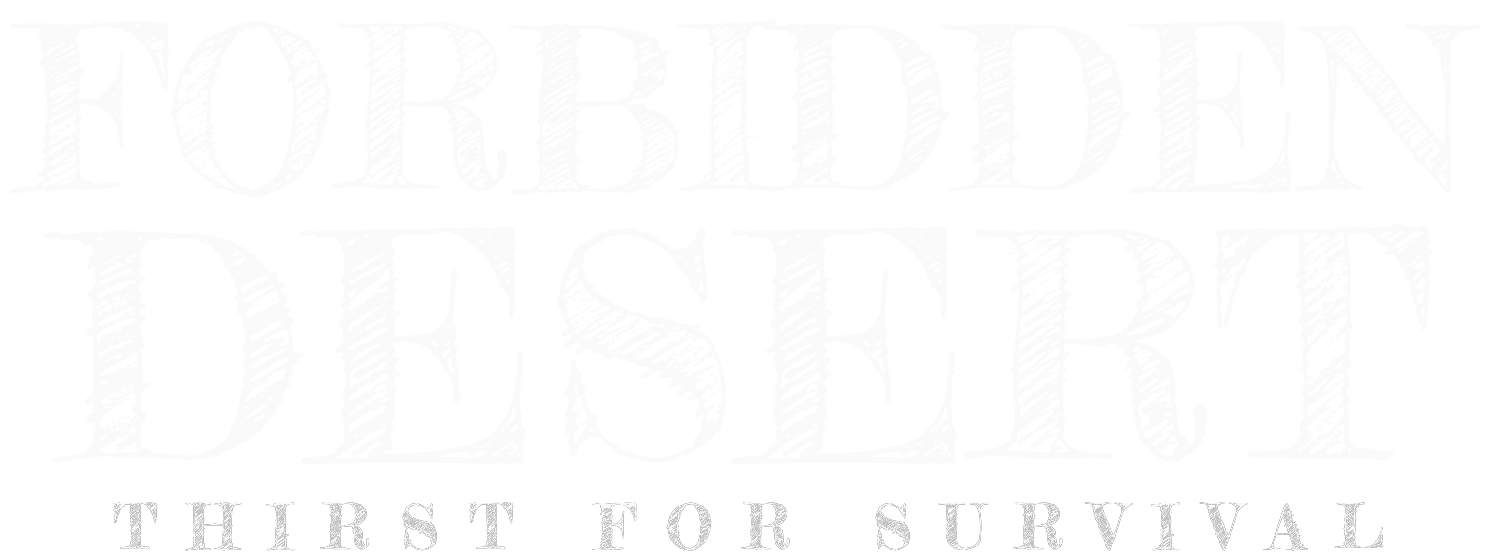
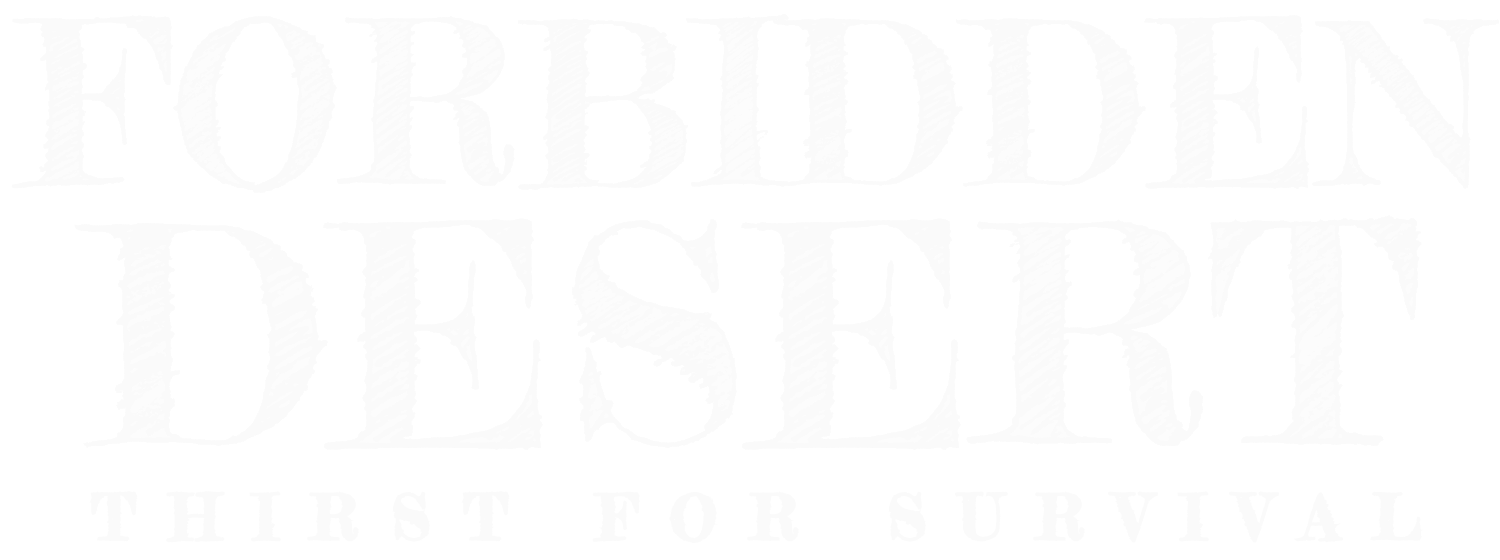
feat: add fade in for main title text
Also improve visibility of title text

diff --git a/src/MainMenu.cpp b/src/MainMenu.cpp
@@ -2,15 +2,17 @@
 
 #include <iostream>
 
-#define BACKGROUND_IMG_PATH "./res/MainMenu/desert-background.png"
-#define TITLE_IMG_PATH "./res/MainMenu/main-title.png"
+#define BACKGROUND_IMG_PATH "res/MainMenu/desert-background.png"
+#define TITLE_IMG_PATH "res/MainMenu/main-title.png"
 
 #define BG_MAX_SPEED 0.02
 #define BG_MIN_SPEED 0.005
 #define BG_SPEED_CUTOFF 0.05
 
-#define TITLE_TOP_PADDING_PCT 0.1
-#define TITLE_HEIGHT_PCT 0.259
+#define TITLE_TOP_PADDING_PCT 0.09
+#define TITLE_HEIGHT_PCT 0.275
+#define TITLE_FADE_IN_START 0.5
+#define TITLE_FADE_IN_END 3
 
 MainMenu::MainMenu()
 {
@@ -18,6 +20,8 @@ MainMenu::MainMenu()
     titleTexture = new raylib::Texture(TITLE_IMG_PATH);
     bgSrcXPercent = 0;
     bgSrcXPosIncreasing = true;
+    titleOpacity = 0;
+    titleFadeStopwatch = 0;
 }
 
 MainMenu::~MainMenu()
@@ -55,6 +59,19 @@ void MainMenu::update(double secs)
         bgSrcXPosIncreasing = true;
     }
     bgSrcXPos = bgSrcXMax * bgSrcXPercent;
+
+    /* Update opacity of main title for fade in */
+    if (titleFadeStopwatch < TITLE_FADE_IN_END) {
+        titleFadeStopwatch += secs;
+        if (titleFadeStopwatch >= TITLE_FADE_IN_END) {
+            titleOpacity = 1;
+        } else if (titleFadeStopwatch > TITLE_FADE_IN_START) {
+            titleOpacity = (titleFadeStopwatch - TITLE_FADE_IN_START) /
+                    (TITLE_FADE_IN_END - TITLE_FADE_IN_START);
+        }
+    } else {
+        titleOpacity = 1;
+    }
 }
 
 void MainMenu::render(Renderer *renderer)
@@ -62,9 +79,8 @@ void MainMenu::render(Renderer *renderer)
     renderer->drawTexture(bgTexture, bgSrcXPos, 0, bgSrcWidth,
             bgTexture->GetHeight(), 0, 0, getWidth(), getHeight());
 
-    renderer->drawTexture(titleTexture, 0, 0, titleTexture->GetWidth(),
-            titleTexture->GetHeight(), titleXPos, titleYPos, titleWidth,
-            titleHeight);
+    renderer->drawTexture(titleTexture, titleXPos, titleYPos, titleWidth,
+            titleHeight, titleOpacity);
 }
 
 void MainMenu::onSizeChangedFrom(int oldWidth, int oldHeight)

diff --git a/src/Renderer.cpp b/src/Renderer.cpp
@@ -60,5 +60,14 @@ int Renderer::measureText(std::string text, int fontSize)
 void Renderer::drawTexture(raylib::Texture *tex, float srcX, float srcY,
         float srcW, float srcH, float dstX, float dstY, float dstW, float dstH)
 {
-    tex->Draw(Rectangle{srcX,srcY,srcW,srcH}, Rectangle{dstX,dstY,dstW,dstH}, Vector2{0,0}, 0, WHITE);
+    tex->Draw(Rectangle{srcX,srcY,srcW,srcH}, Rectangle{dstX,dstY,dstW,dstH},
+            Vector2{0,0}, 0, WHITE);
+}
+
+void Renderer::drawTexture(raylib::Texture *tex, float dstX, float dstY, float dstW,
+        float dstH, float opacity)
+{
+    tex->Draw(Rectangle{0,0,(float)tex->GetWidth(),(float)tex->GetHeight()},
+            Rectangle{dstX,dstY,dstW,dstH}, Vector2{0,0}, 0,
+            Color{255,255,255,(unsigned char)(255*opacity)});
 }

diff --git a/src/Renderer.h b/src/Renderer.h
@@ -47,6 +47,10 @@ class Renderer {
     void drawTexture(raylib::Texture *tex, float srcX, float srcY, float srcW,
             float srcH, float dstX, float dstY, float dstW, float dstH);
 
+    /* Draw the entire given texture at dst params with given transparency */
+    void drawTexture(raylib::Texture *tex, float dstX, float dstY, float dstW,
+            float dstH, float opacity);
+
  private:
 
     /* The current color that will be used in drawing operations */

diff --git a/src/MainMenu.h b/src/MainMenu.h
@@ -34,6 +34,8 @@ class MainMenu : public Scene {
     float titleYPos;
     float titleWidth;
     float titleHeight;
+    float titleOpacity;
+    float titleFadeStopwatch;
 
 };
 
